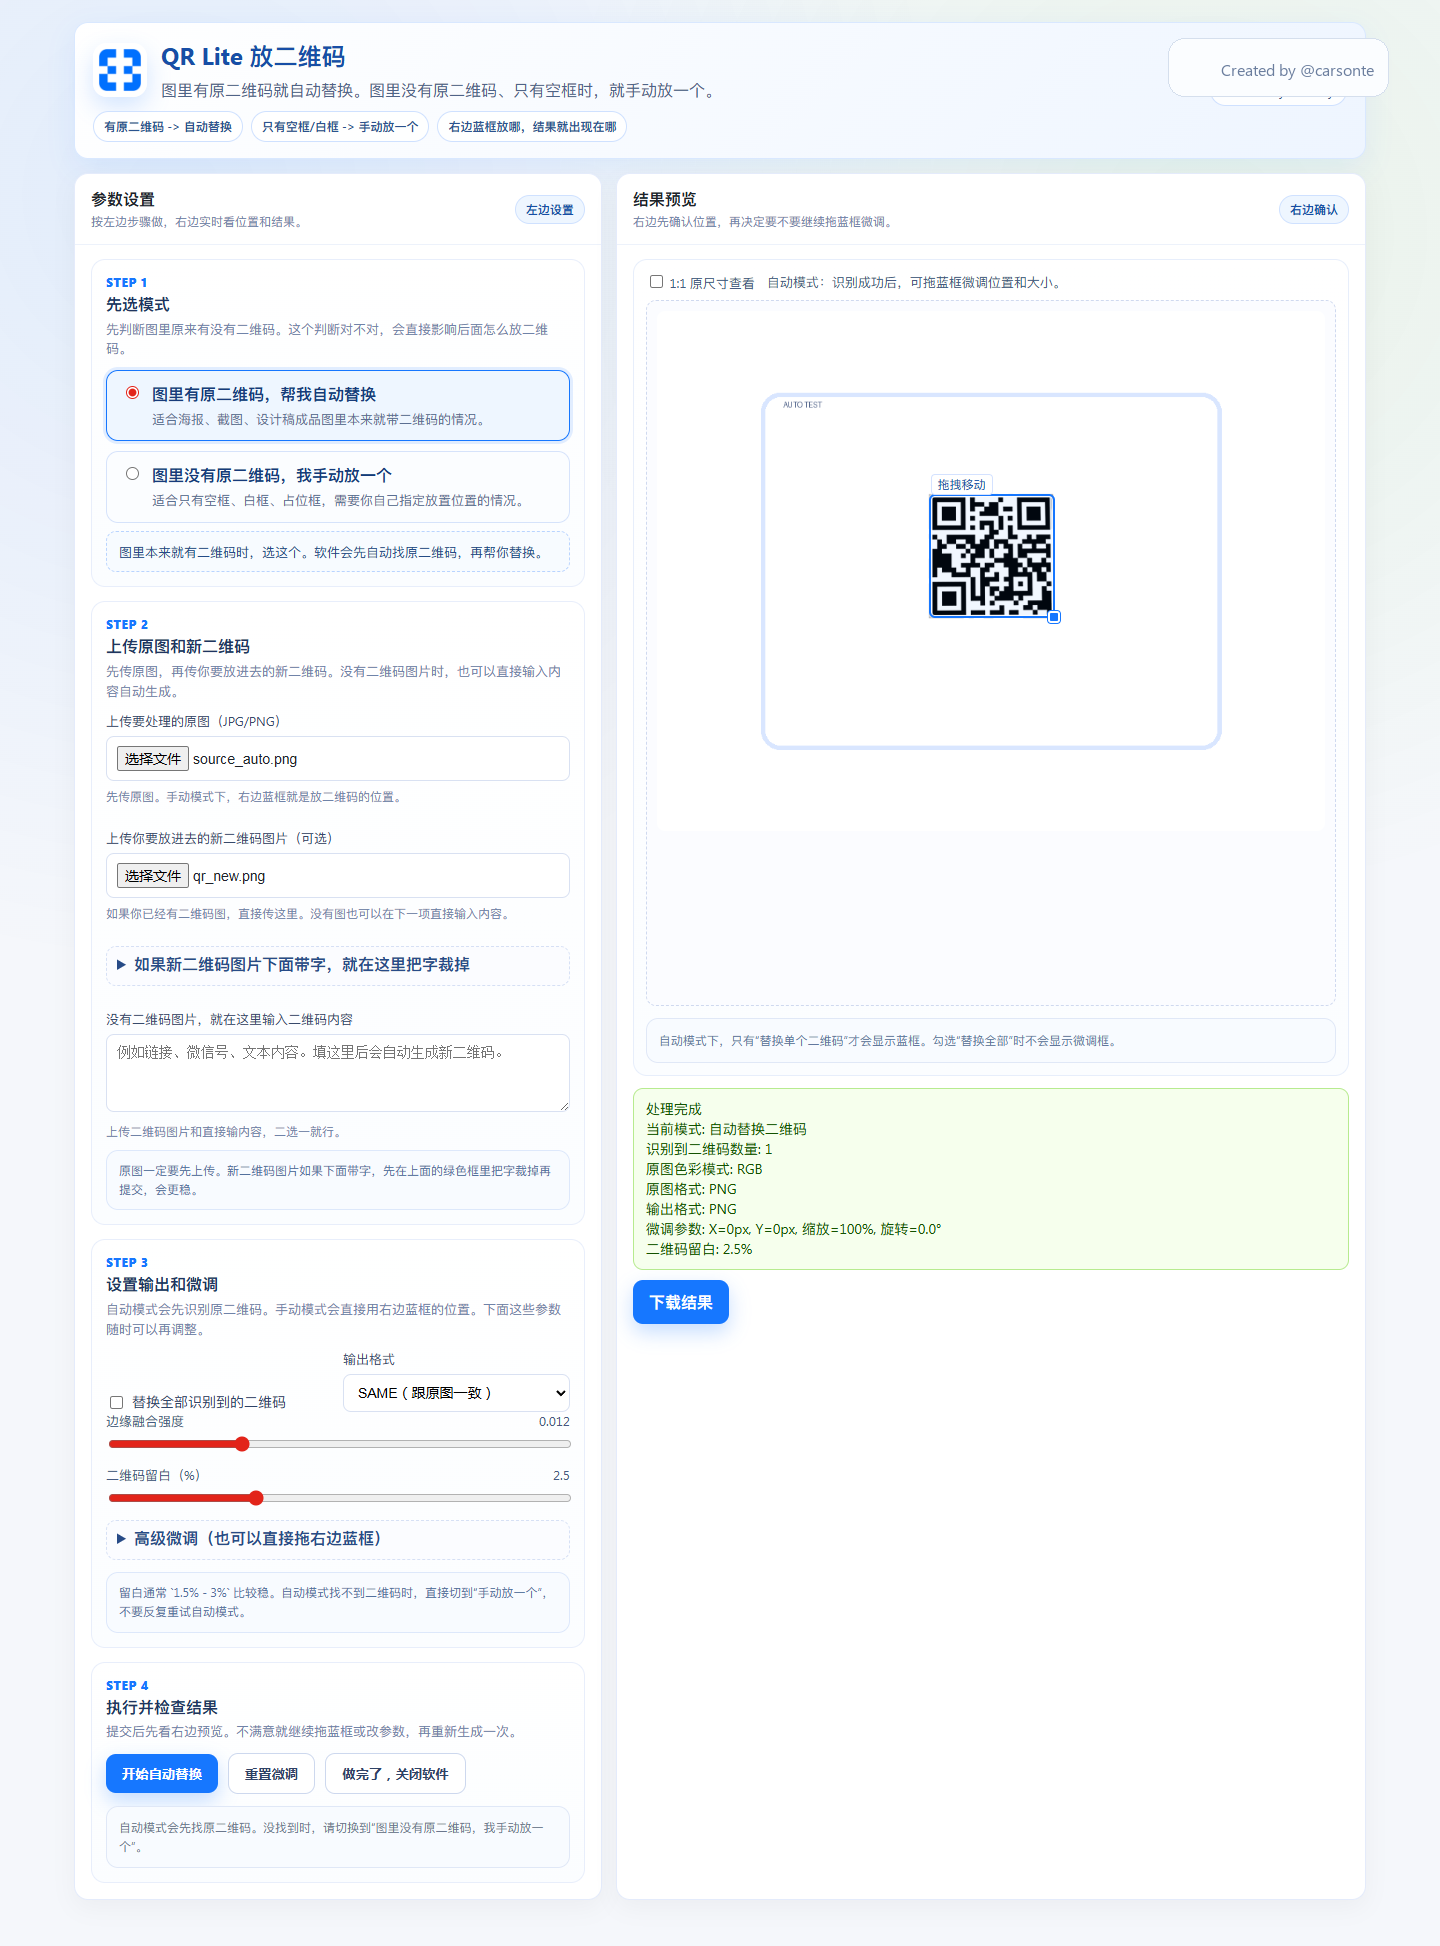
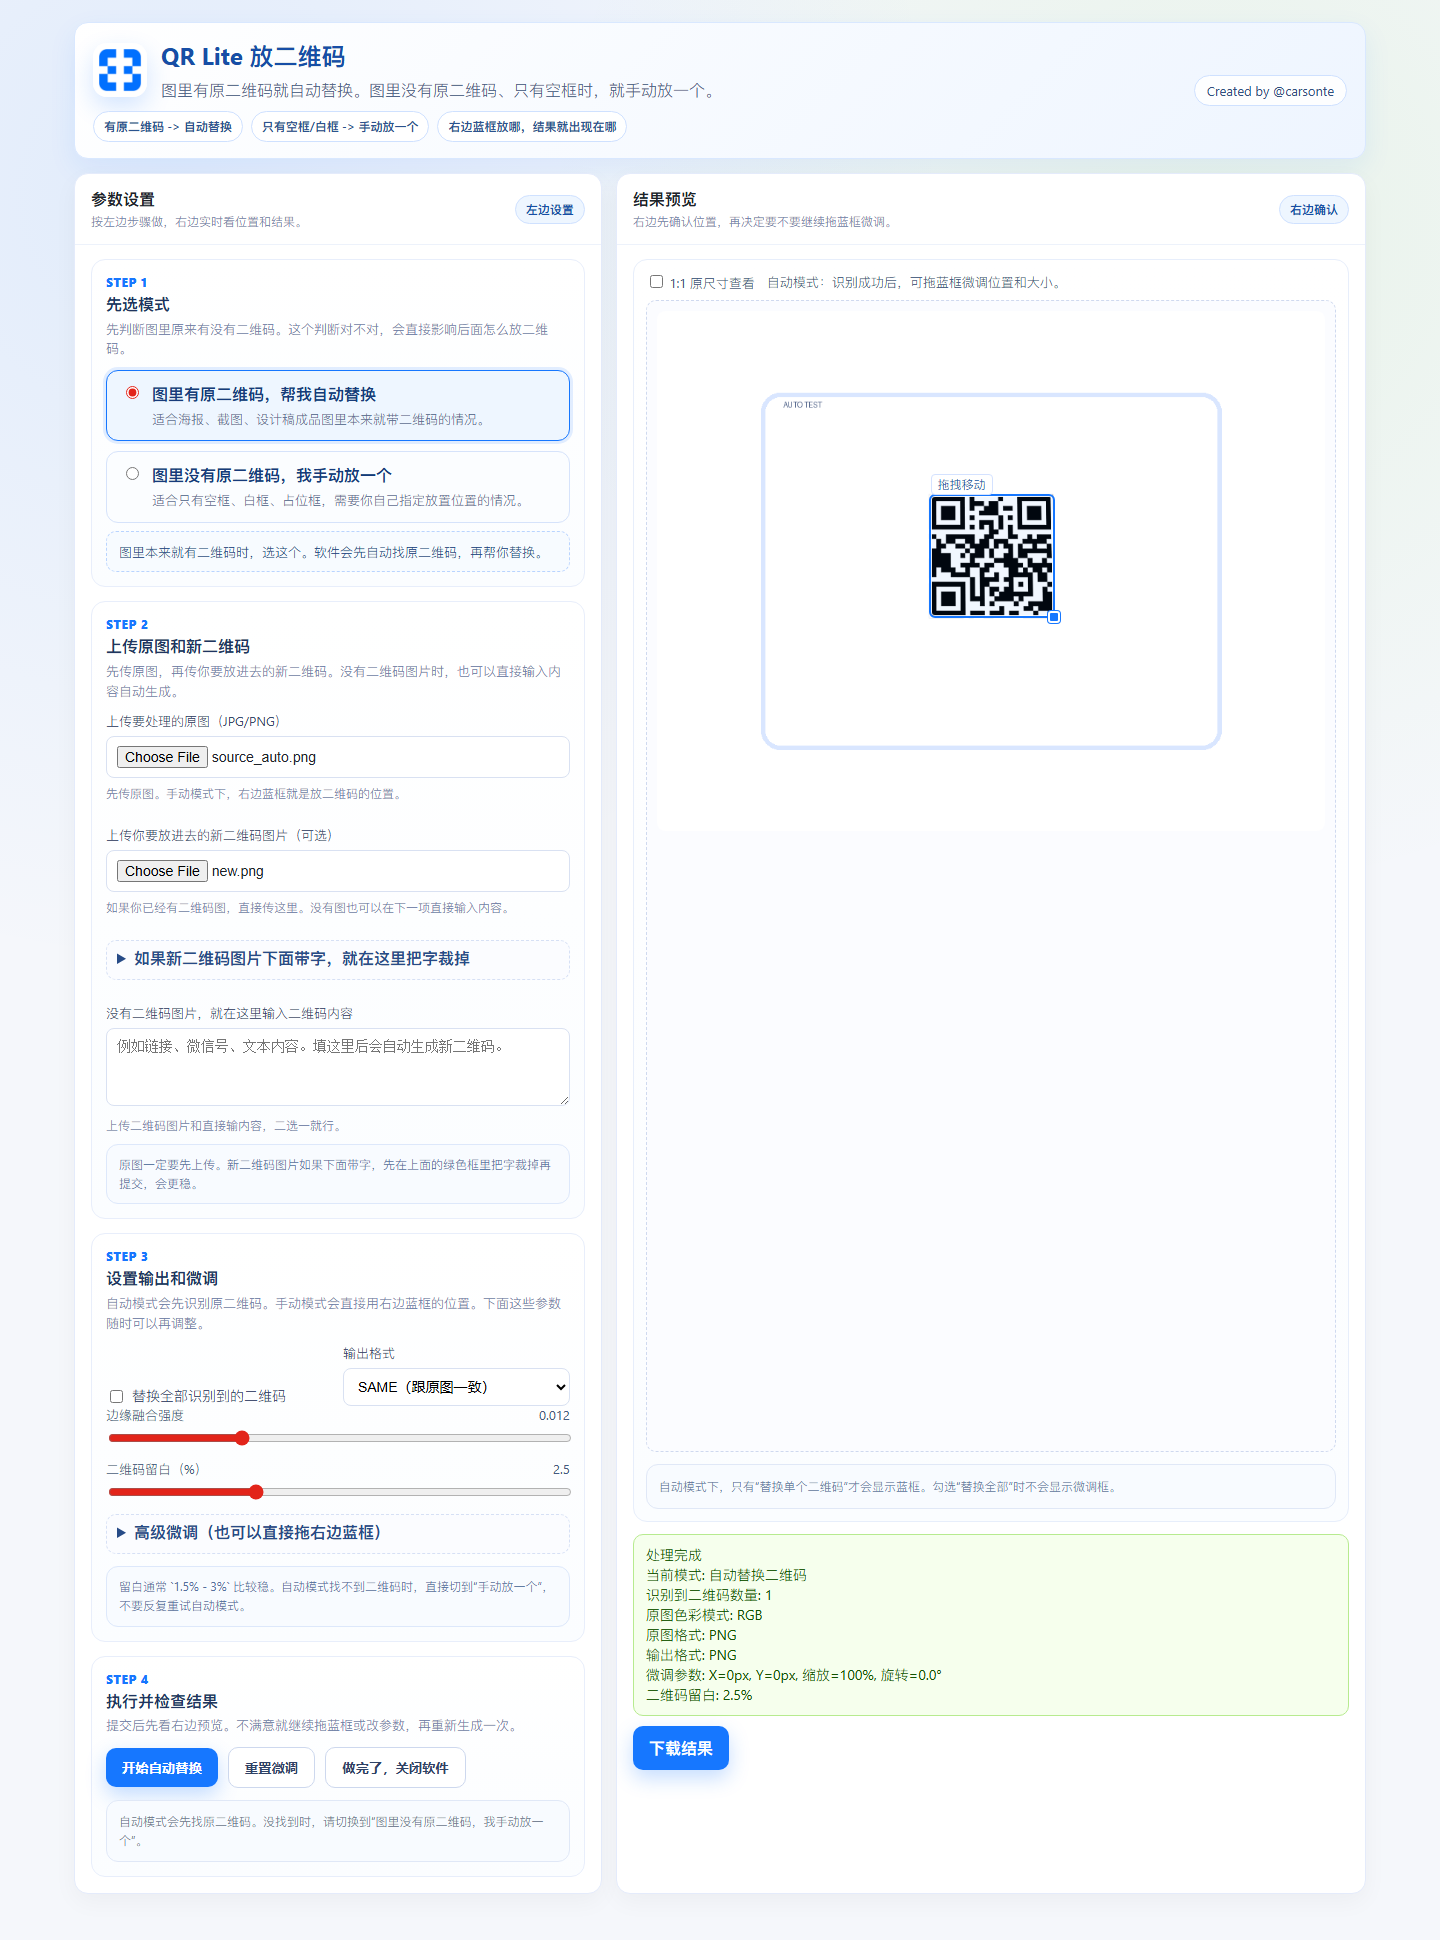
Regenerate README screenshots from app

diff --git a/scripts/capture_readme_screenshots.py b/scripts/capture_readme_screenshots.py
@@ -1,0 +1,119 @@
+from __future__ import annotations
+
+import os
+import subprocess
+import sys
+import time
+from pathlib import Path
+
+import requests
+from playwright.sync_api import Browser, Page, Playwright, sync_playwright
+
+
+ROOT = Path(__file__).resolve().parents[1]
+DOCS_DIR = ROOT / "docs" / "images"
+TMP_DIR = ROOT / "tmp_test"
+PORT = 7888
+BASE_URL = f"http://127.0.0.1:{PORT}"
+VIEWPORT = {"width": 1440, "height": 1600}
+
+
+def wait_ready(timeout_seconds: float = 30.0) -> None:
+    started = time.perf_counter()
+    while time.perf_counter() - started < timeout_seconds:
+        try:
+            response = requests.get(f"{BASE_URL}/", timeout=0.5)
+            if response.status_code == 200 and "QR Lite" in response.text:
+                return
+        except requests.RequestException:
+            pass
+        time.sleep(0.25)
+    raise RuntimeError("QR Lite did not become ready in time.")
+
+
+def stop_server(proc: subprocess.Popen[str]) -> None:
+    try:
+        requests.post(f"{BASE_URL}/api/shutdown", timeout=3)
+    except requests.RequestException:
+        pass
+    try:
+        proc.wait(timeout=15)
+    except subprocess.TimeoutExpired:
+        proc.terminate()
+        try:
+            proc.wait(timeout=5)
+        except subprocess.TimeoutExpired:
+            proc.kill()
+            proc.wait(timeout=5)
+
+
+def open_page(browser: Browser) -> Page:
+    page = browser.new_page(viewport=VIEWPORT, device_scale_factor=1)
+    page.goto(BASE_URL, wait_until="networkidle")
+    page.locator(".hero").wait_for()
+    page.wait_for_timeout(500)
+    return page
+
+
+def screenshot_layout(browser: Browser) -> None:
+    page = open_page(browser)
+    page.screenshot(path=str(DOCS_DIR / "layout-desktop.png"), full_page=True)
+    page.close()
+
+
+def screenshot_auto_success(browser: Browser) -> None:
+    page = open_page(browser)
+    page.locator("#source_image").set_input_files(str(TMP_DIR / "source_auto.png"))
+    page.locator("#replacement_qr_image").set_input_files(str(TMP_DIR / "new.png"))
+    page.locator("#submit_btn").click()
+    page.locator("#download").wait_for(state="visible", timeout=30000)
+    page.locator("#msg.success").wait_for(timeout=30000)
+    page.wait_for_timeout(800)
+    page.screenshot(path=str(DOCS_DIR / "auto-success.png"), full_page=True)
+    page.close()
+
+
+def screenshot_manual_success(browser: Browser) -> None:
+    page = open_page(browser)
+    page.locator("#placement_mode_manual").check()
+    page.locator("#source_image").set_input_files(str(TMP_DIR / "source_manual.png"))
+    page.locator("#replacement_qr_image").set_input_files(str(TMP_DIR / "new.png"))
+    page.locator("#adjust_box").wait_for(state="visible", timeout=15000)
+    page.locator("#submit_btn").click()
+    page.locator("#download").wait_for(state="visible", timeout=30000)
+    page.locator("#msg.success").wait_for(timeout=30000)
+    page.wait_for_timeout(800)
+    page.screenshot(path=str(DOCS_DIR / "manual-success.png"), full_page=True)
+    page.close()
+
+
+def capture_all(playwright: Playwright) -> None:
+    browser = playwright.chromium.launch(headless=True)
+    try:
+        screenshot_layout(browser)
+        screenshot_auto_success(browser)
+        screenshot_manual_success(browser)
+    finally:
+        browser.close()
+
+
+def main() -> None:
+    DOCS_DIR.mkdir(parents=True, exist_ok=True)
+    env = os.environ.copy()
+    env["QR_LITE_NO_BROWSER"] = "1"
+    env["QR_LITE_IDLE_EXIT_SECONDS"] = "0"
+    proc = subprocess.Popen(
+        [sys.executable, "-c", f"import app; app.launch_app(open_browser=False, port={PORT})"],
+        cwd=str(ROOT),
+        env=env,
+    )
+    try:
+        wait_ready()
+        with sync_playwright() as playwright:
+            capture_all(playwright)
+    finally:
+        stop_server(proc)
+
+
+if __name__ == "__main__":
+    main()
